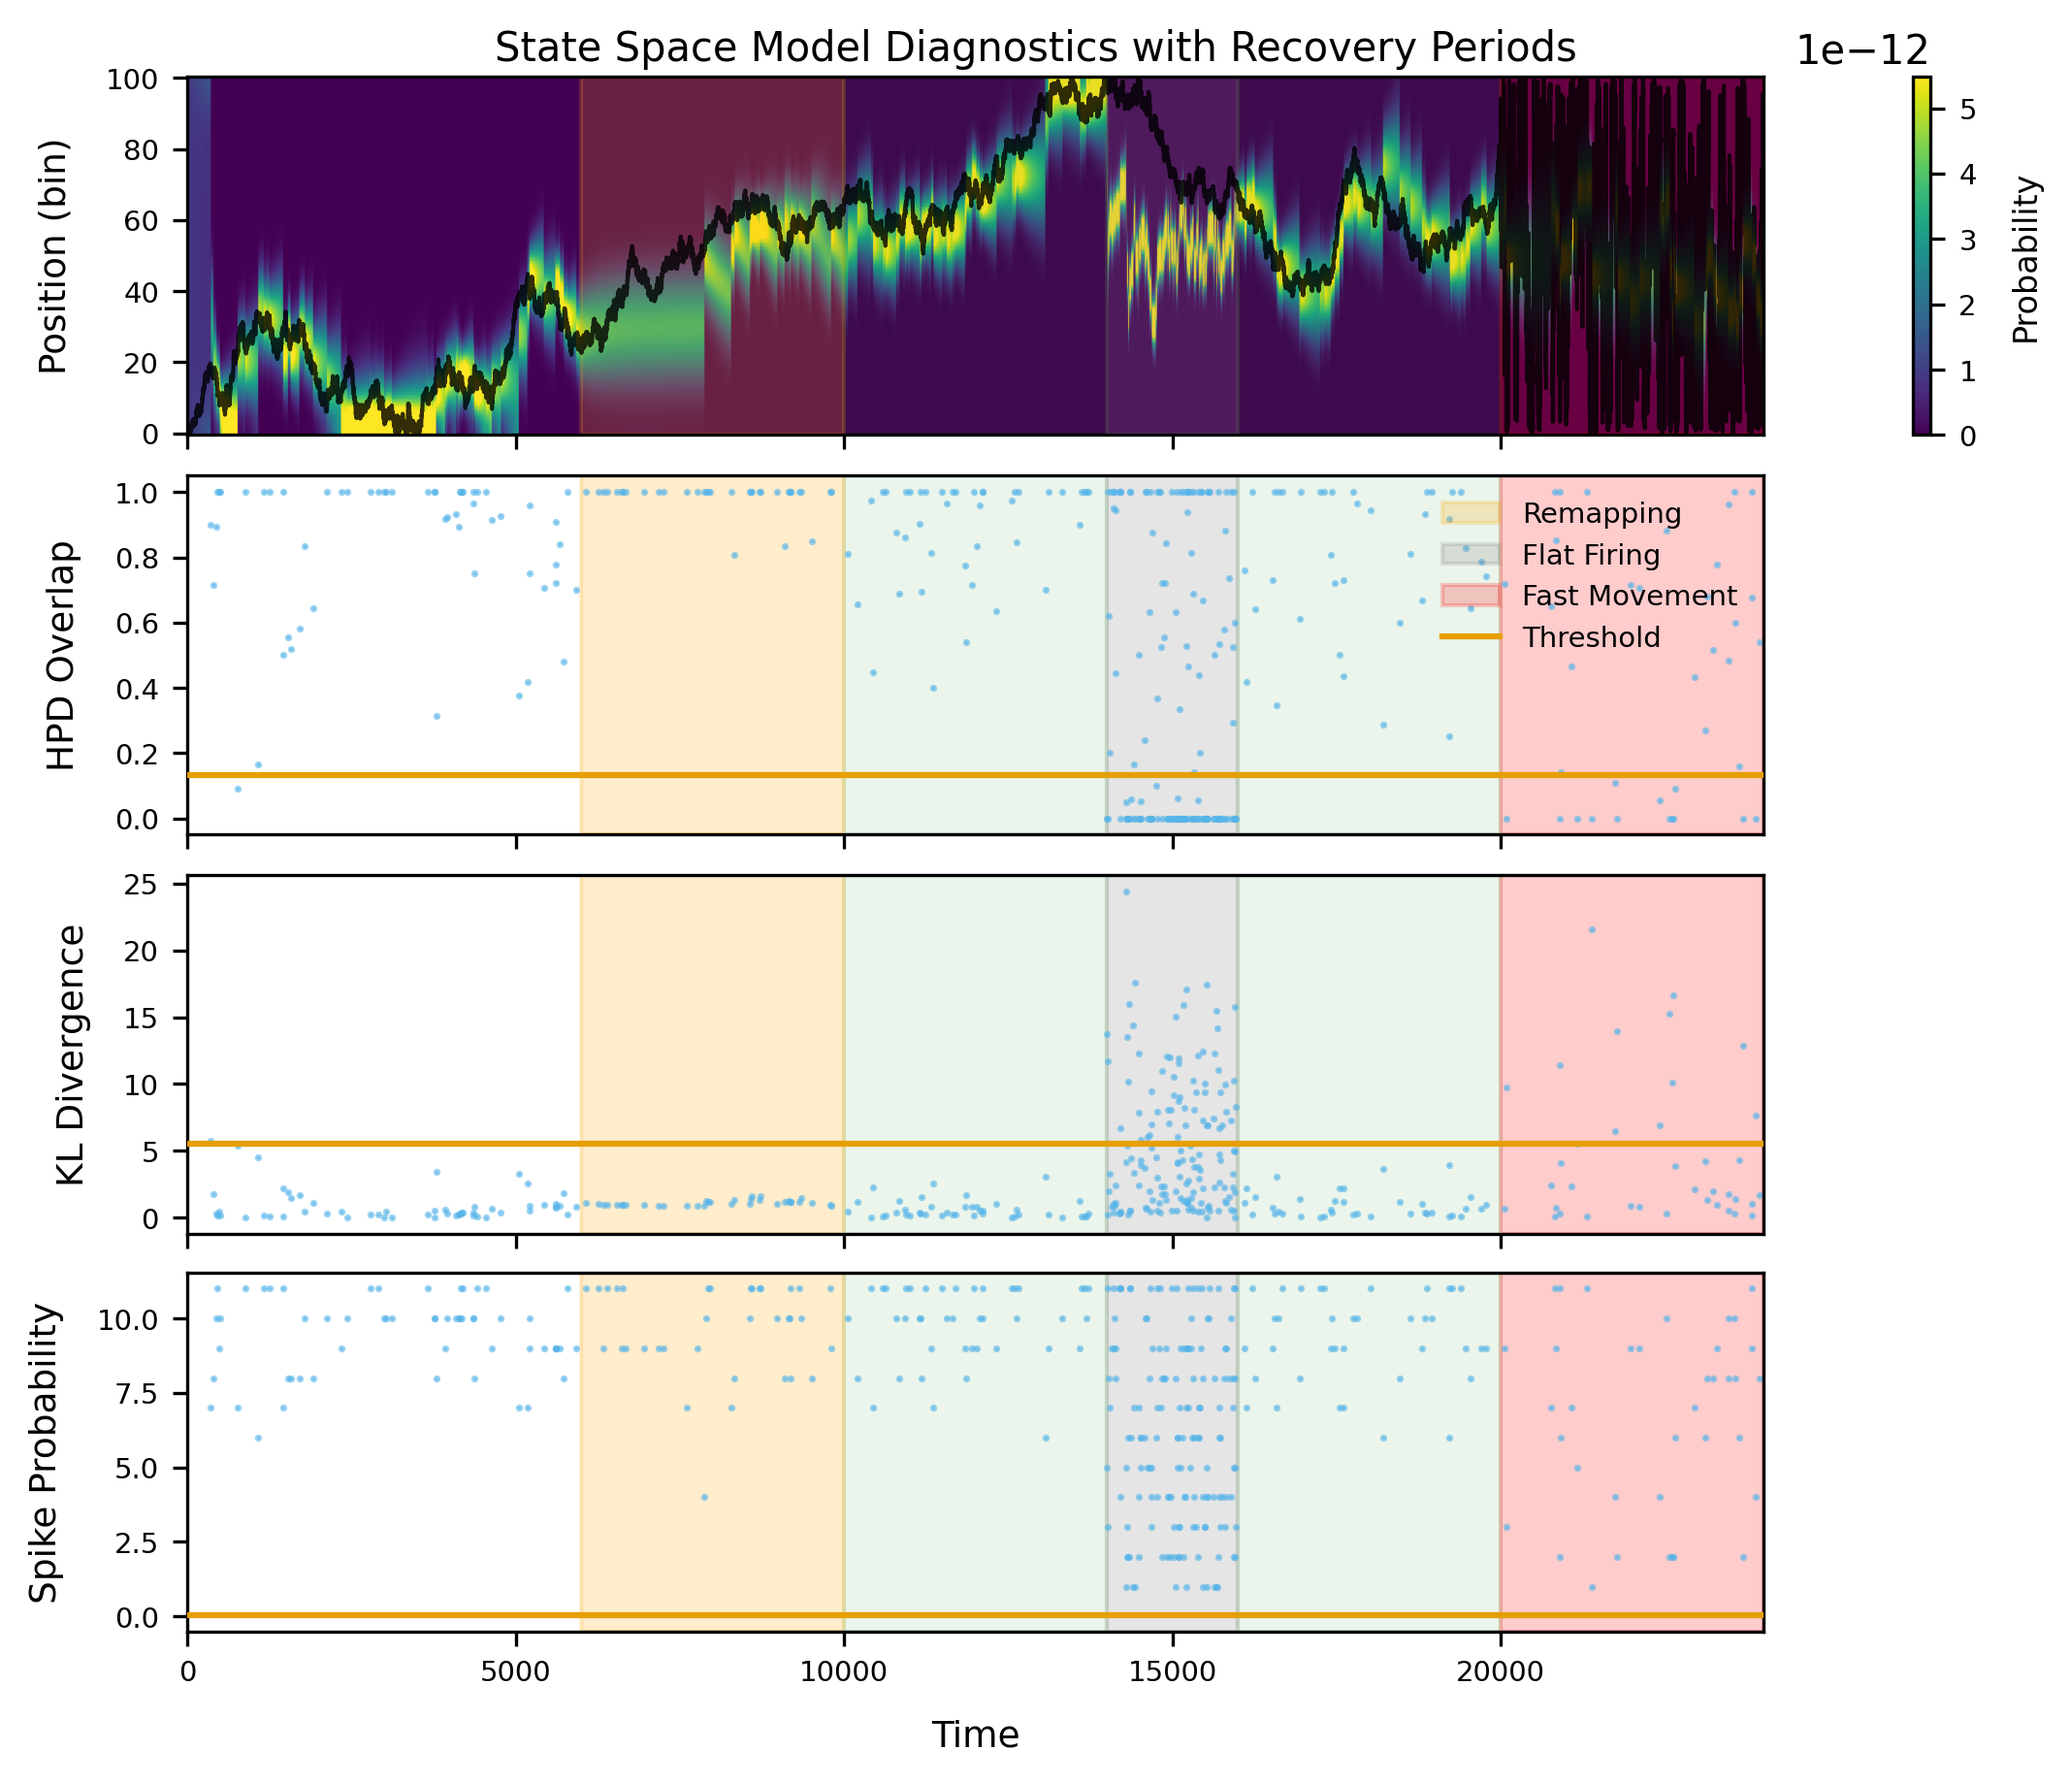
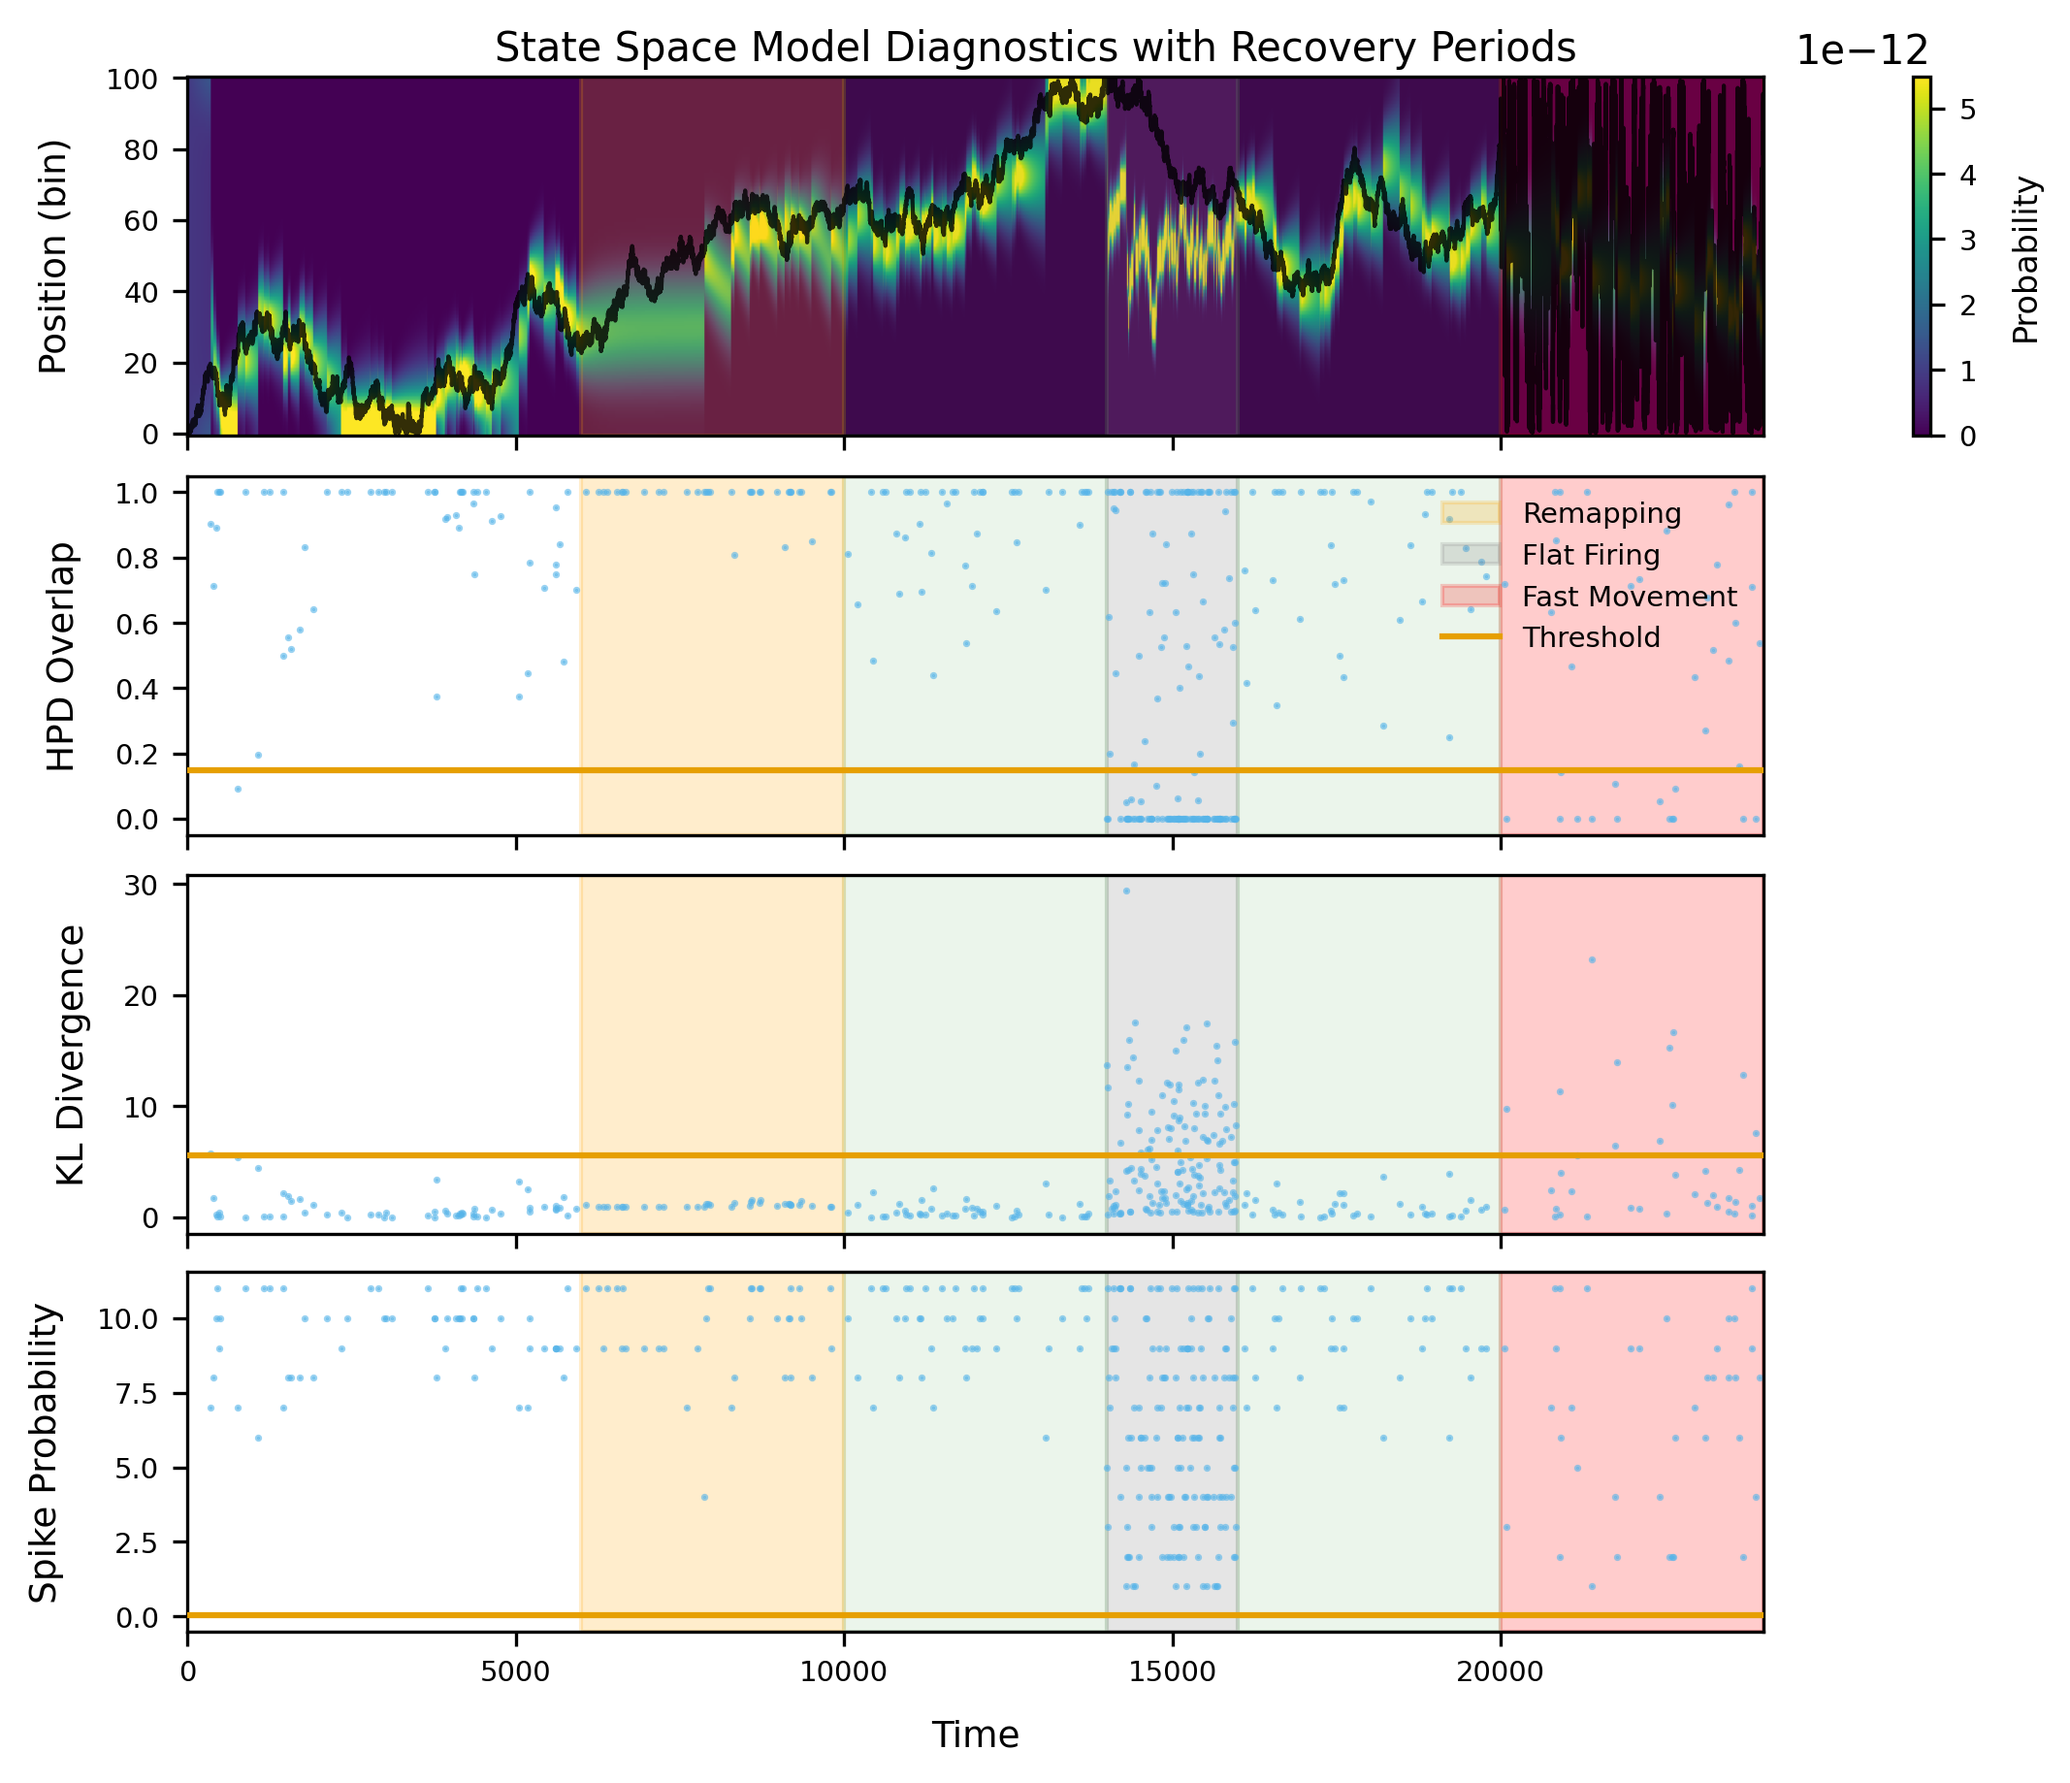
Refactor diagnostics to use statespacecheck package
Replaced custom HPD overlap and KL divergence calculations with statespacecheck library functions in sim.py for improved reliability and maintainability. Updated analyze_sim.py and sim.py docstrings for clarity, improved code formatting, and made imports more robust. Updated sim_diagnostics.png to reflect changes in diagnostic computation.

Changed region(s): [[0.0619, 0.5272, 0.866, 0.6823], [0.0928, 0.4032, 0.8351, 0.4652], [0.7732, 0.3101, 0.8041, 0.3411]]

diff --git a/scripts/sim.py b/scripts/sim.py
@@ -1,4 +1,9 @@
-# diagnostics_rw.py
+"""Demonstration simulation for state space model diagnostics.
+
+This script simulates a Bayesian decoder with periods of good and poor model fit,
+then computes diagnostic metrics using the statespacecheck package.
+"""
+
 from __future__ import annotations
 
 from dataclasses import dataclass
@@ -7,6 +12,8 @@ import matplotlib.pyplot as plt
 import numpy as np
 from numpy.typing import NDArray
 from scipy.stats import norm, poisson
+
+import statespacecheck as ssc
 
 # -----------------------------
 # Utilities (DRY helpers)
@@ -20,11 +27,6 @@ def normalize(
     s = np.sum(p, axis=axis, keepdims=True)
     s = np.maximum(s, eps)
     return p / s
-
-
-def safe_log(x: NDArray[np.floating], eps: float = 1e-12) -> NDArray[np.floating]:
-    """Return log(x) with numerical safety to avoid log(0)."""
-    return np.log(np.maximum(x, eps))
 
 
 def reflect_into_interval(x: NDArray[np.floating], lo: float, hi: float) -> NDArray[np.floating]:
@@ -42,52 +44,9 @@ def gaussian_transition_matrix(xs: NDArray[np.floating], sig: float) -> NDArray[
     return normalize(matrix, axis=0)  # columns sum to 1
 
 
-def hpd_mask_from_probs(p: NDArray[np.floating], alpha: float = 0.05) -> NDArray[np.bool_]:
-    """Compute highest posterior density mask keeping highest-density (1 - alpha) mass.
-
-    p: shape (n_bins,) or (n_bins, n_series). Returns boolean mask with same shape.
-    """
-    p = np.asarray(p)
-    if p.ndim == 1:
-        idx = np.argsort(p)  # ascending
-        cdf = np.cumsum(p[idx])
-        keep = cdf > alpha  # drop the lowest alpha mass
-        m = np.zeros_like(p, dtype=bool)
-        m[idx[keep]] = True
-        return m
-    else:
-        # vectorized over last axis
-        idx = np.argsort(p, axis=0)  # (n_bins, n_series)
-        p_sorted = np.take_along_axis(p, idx, axis=0)
-        cdf = np.cumsum(p_sorted, axis=0)
-        keep = cdf > alpha
-        m = np.zeros_like(p, dtype=bool)
-        # put True back at the kept indices
-        np.put_along_axis(m, idx, keep, axis=0)
-        return m
-
-
-def overlap_ratio(
-    a: NDArray[np.bool_], b: NDArray[np.bool_], axis: int = 0
-) -> NDArray[np.floating]:
-    """Compute intersection over minimum size along axis.
-
-    Returns |A ∩ B| / min(|A|, |B|) along axis.
-    """
-    inter = np.sum(a & b, axis=axis)
-    denom = np.minimum(np.sum(a, axis=axis), np.sum(b, axis=axis))
-    with np.errstate(invalid="ignore", divide="ignore"):
-        r = inter / denom
-    return np.nan_to_num(r, nan=0.0)
-
-
-def kl_divergence(
-    p: NDArray[np.floating], q: NDArray[np.floating], axis: int = 0, eps: float = 1e-12
-) -> NDArray[np.floating]:
-    """KL(p || q) along axis; p and q should already be normalized."""
-    p = np.maximum(p, eps)
-    q = np.maximum(q, eps)
-    return np.sum(p * (safe_log(p) - safe_log(q)), axis=axis)
+def safe_log(x: NDArray[np.floating], eps: float = 1e-12) -> NDArray[np.floating]:
+    """Return log(x) with numerical safety to avoid log(0)."""
+    return np.log(np.maximum(x, eps))
 
 
 def placefield_rates(
@@ -295,21 +254,28 @@ def decode_and_diagnostics(
         # Predict (prior)
         prior = normalize(post[t - 1] @ osm)  # (n_bins,)
 
-        # HPD mask of prediction
-        hpd_prior = hpd_mask_from_probs(prior, alpha=0.05)  # (n_bins,)
-
         # Likelihood grid for this time's counts (vectorized over bins & cells)
         likelihood = likelihood_grid_for_counts(xs, pf_centers, pf_width, rate_scale, spikes[t])
         # Optional remap (imitating MATLAB's j==10 uses field of j==1 in a window)
         active_remap = start_r <= t <= end_r
         likelihood = apply_remap_for_likelihoods(likelihood, remap_from_to, active_remap)
 
-        # HPD per cell (vectorized)
-        hpd_likelihood = hpd_mask_from_probs(likelihood, alpha=0.05)  # (n_bins, n_cells)
-        hpdo[t] = overlap_ratio(hpd_likelihood, hpd_prior[:, None], axis=0)
+        # Compute diagnostics using statespacecheck functions
+        # Process each cell separately since statespacecheck expects matching spatial dims
+        prior_t = prior[np.newaxis, :]  # (1, n_bins)
 
-        # KL per cell (vectorized): KL(prior || likelihood[:, j])
-        kl[t] = kl_divergence(prior[:, None], likelihood, axis=0)
+        # Compute per-cell diagnostics
+        for cell_idx in range(n_cells):
+            # Get likelihood for this cell: (n_bins,) -> (1, n_bins)
+            like_cell = likelihood[:, cell_idx][np.newaxis, :]
+
+            # HPD overlap between prior and this cell's likelihood
+            hpdo_t = ssc.hpd_overlap(prior_t, like_cell, coverage=0.95)
+            hpdo[t, cell_idx] = hpdo_t[0]
+
+            # KL divergence between prior and this cell's likelihood
+            kl_t = ssc.kl_divergence(prior_t, like_cell)
+            kl[t, cell_idx] = kl_t[0]
 
         # Posterior update with product over cells (independence)
         combined = np.prod(likelihood, axis=1)  # (n_bins,)
@@ -424,20 +390,44 @@ def plot_original(
     for ax in axes:
         # Highlight phase boundaries with different colors for misfit vs recovery
         if phase_boundaries is not None and len(phase_boundaries) == 6:
-            t_remap_start, t_remap_end, t_recovery1_end, t_flat_end, t_recovery2_end, t_fast_end = (
-                phase_boundaries
-            )
+            (
+                t_remap_start,
+                t_remap_end,
+                t_recovery1_end,
+                t_flat_end,
+                t_recovery2_end,
+                t_fast_end,
+            ) = phase_boundaries
 
             # Misfit periods (colored)
             ax.axvspan(t_remap_start, t_remap_end, alpha=0.2, color="orange", label="Remapping")
-            ax.axvspan(t_recovery1_end, t_flat_end, alpha=0.2, color="gray", label="Flat Firing")
-            ax.axvspan(t_recovery2_end, t_fast_end, alpha=0.2, color="red", label="Fast Movement")
+            ax.axvspan(
+                t_recovery1_end,
+                t_flat_end,
+                alpha=0.2,
+                color="gray",
+                label="Flat Firing",
+            )
+            ax.axvspan(
+                t_recovery2_end,
+                t_fast_end,
+                alpha=0.2,
+                color="red",
+                label="Fast Movement",
+            )
 
             # Recovery periods (very light green background)
             ax.axvspan(t_remap_end, t_recovery1_end, alpha=0.08, color="green")
             ax.axvspan(t_flat_end, t_recovery2_end, alpha=0.08, color="green")
 
-    axes[1].plot(metrics["HPDO"], ".", markersize=1.5, alpha=0.6, color="#56B4E9", rasterized=True)
+    axes[1].plot(
+        metrics["HPDO"],
+        ".",
+        markersize=1.5,
+        alpha=0.6,
+        color="#56B4E9",
+        rasterized=True,
+    )
     axes[1].axhline(th.HPDO, color="#E69F00", linewidth=1.5, label="Threshold", zorder=10)
     axes[1].set_xlim(0, n_time)
     axes[1].set_ylabel("HPD Overlap", fontsize=9, labelpad=8)
@@ -451,7 +441,12 @@ def plot_original(
     axes[2].tick_params(labelsize=7)
 
     axes[3].plot(
-        metrics["spikeProb"], ".", markersize=1.5, alpha=0.6, color="#56B4E9", rasterized=True
+        metrics["spikeProb"],
+        ".",
+        markersize=1.5,
+        alpha=0.6,
+        color="#56B4E9",
+        rasterized=True,
     )
     axes[3].axhline(th.spike_prob, color="#E69F00", linewidth=1.5, label="Threshold", zorder=10)
     axes[3].set_xlim(0, n_time)

diff --git a/scripts/analyze_sim.py b/scripts/analyze_sim.py
@@ -1,16 +1,33 @@
-"""Analyze the simulation output to quantify misfit effects."""
+"""Analyze the simulation output to quantify misfit effects.
+
+This script runs the simulation from sim.py and provides detailed quantitative
+analysis of the diagnostic metrics across all phases.
+"""
 
 from __future__ import annotations
 
 import numpy as np
-from sim import (
-    DecodeParams,
-    decode_and_diagnostics,
-    gaussian_transition_matrix,
-    simulate_spikes_flat_rate,
-    simulate_spikes_position_tuned,
-    simulate_walk,
-)
+
+# Import from the sim module in the same directory
+try:
+    from .sim import (
+        DecodeParams,
+        decode_and_diagnostics,
+        gaussian_transition_matrix,
+        simulate_spikes_flat_rate,
+        simulate_spikes_position_tuned,
+        simulate_walk,
+    )
+except ImportError:
+    # Fallback for direct execution
+    from sim import (
+        DecodeParams,
+        decode_and_diagnostics,
+        gaussian_transition_matrix,
+        simulate_spikes_flat_rate,
+        simulate_spikes_position_tuned,
+        simulate_walk,
+    )
 
 
 def analyze_simulation() -> None:
